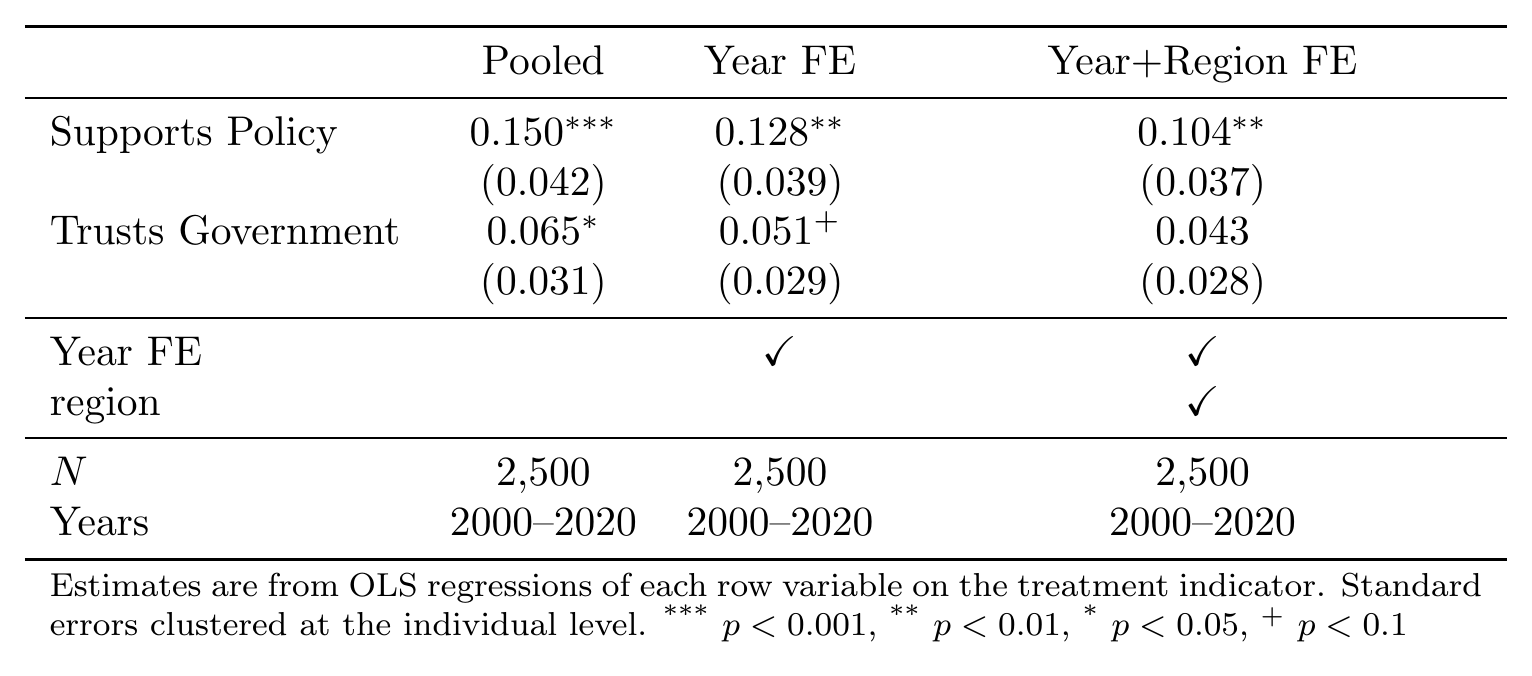
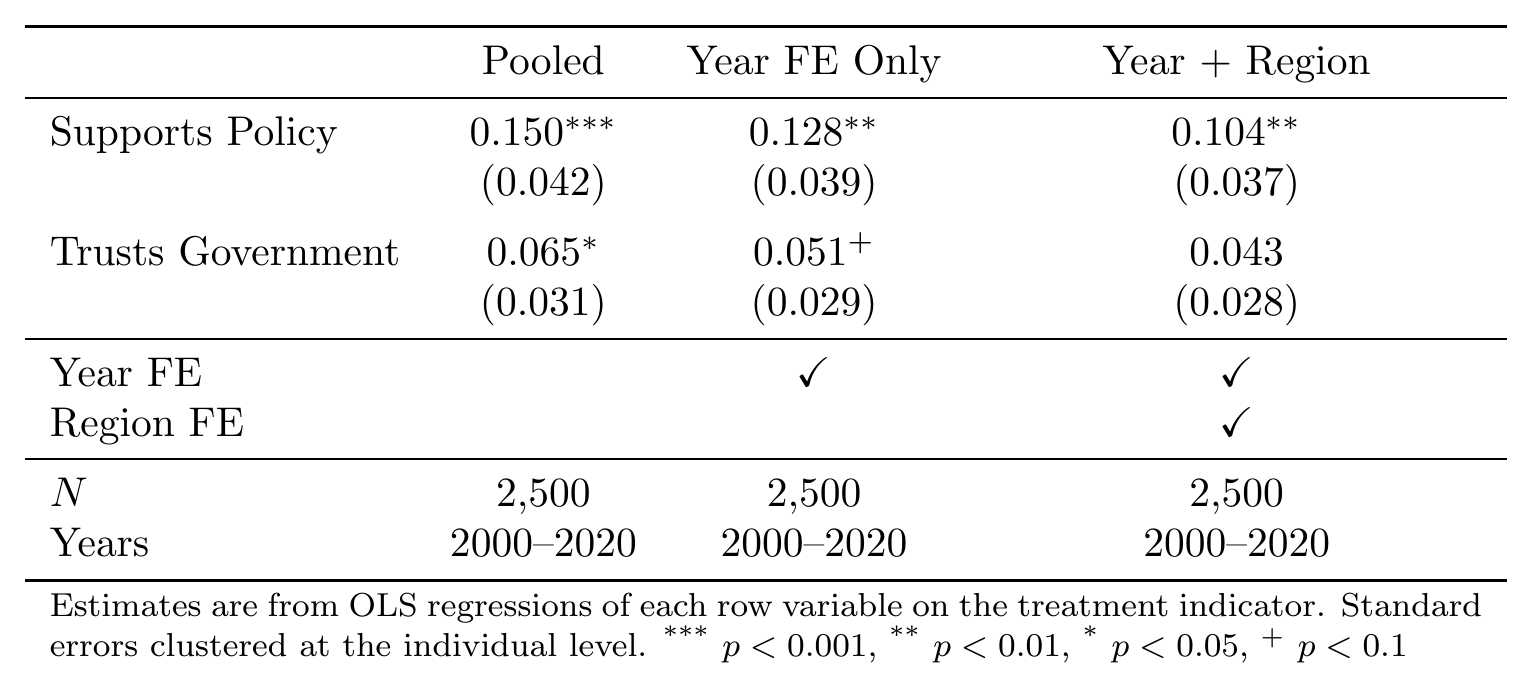
Add Zotero MCP exercise and refine policy table labels

diff --git a/slides/session4_slides.tex b/slides/session4_slides.tex
@@ -699,19 +699,50 @@ sentence citing each in methods.tex.
   \alert{Watch the tool calls, not just the output. Seeing which tools fire tells you what the MCP actually does.}
 \end{frame}
 
-\begin{frame}{Where Would This Reduce Friction for You?}
-  \textbf{One minute, with the person next to you:}
+\begin{frame}[fragile]{Exercise: Mini Literature Review (15 min)}
+  \textbf{You installed the Zotero MCP as Session 4 prework and pointed it at the shared group library \texttt{aina-articles} --- recent papers on economic voting.}
 
-  \vspace{0.8em}
-  \begin{itemize}
-    \item Where in your own drafting workflow do you break flow to check Zotero?
-    \item Is it frequent enough that removing the context-switch would actually matter?
-    \item Or is it rare enough that the setup cost isn't worth it?
+  \vspace{0.4em}
+  \textbf{Your task.} Draft a \textbf{five-sentence literature review} on \emph{one} of:
+  \begin{itemize}\small
+    \item How economic conditions shape vote choice
+    \item Whether voters punish incumbents for bad economies
+    \item How economic voting differs across contexts (regimes, institutions, crises)
   \end{itemize}
 
-  \vspace{1em}
-  \begin{alertblock}{You already installed it}
-    The Zotero MCP setup was in your Session 4 prework. If you completed it, the demo you just saw runs on your machine too --- try the same prompt against your own library after class.
+  \vspace{0.3em}
+  \textbf{Rules:}
+  \begin{itemize}\small
+    \item Every sentence cites at least one paper from \texttt{aina-articles}
+    \item Only use cite keys that \emph{actually exist} in the library --- no hallucinations
+    \item Claude does the searching, full-text reading, and drafting
+  \end{itemize}
+
+  \vspace{0.3em}
+  \textbf{Prompt to start from:}
+  \begin{lstlisting}[basicstyle=\ttfamily\scriptsize]
+Using only papers in my Zotero 'aina-articles' collection, find
+5 relevant to [topic]. Pull the key claim from each full text,
+then draft a 5-sentence lit review with \cite{} for each.
+  \end{lstlisting}
+\end{frame}
+
+\begin{frame}{What to Watch For}
+  \textbf{While the model works, watch the tool calls:}
+
+  \vspace{0.4em}
+  \begin{itemize}
+    \item Did it run \texttt{zotero\_semantic\_search}, or skip search and guess?
+    \item Did it actually pull \texttt{zotero\_get\_item\_fulltext}, or cite from titles alone?
+    \item Do the claims in your sentences match what the papers actually say?
+  \end{itemize}
+
+  \vspace{0.6em}
+  \textbf{After drafting, spot-check one citation.} Open the paper in Zotero. Does the sentence you wrote accurately represent what the paper argues?
+
+  \vspace{0.6em}
+  \begin{alertblock}{The real lesson}
+    An MCP gives Claude \emph{access}. It does not give Claude \emph{judgment}. The failure mode to expect: a plausible sentence citing a paper that says something adjacent --- but not quite that. \textbf{You still read.}
   \end{alertblock}
 \end{frame}
 

diff --git a/session_4/demo_output/tab_policy.tex b/session_4/demo_output/tab_policy.tex
@@ -1,14 +1,15 @@
 \begin{tabular}{l*{3}{c}}
 \toprule
- & Pooled & Year FE & Year+Region FE \\
+ & Pooled & Year FE Only & Year + Region \\
 \midrule
 Supports Policy & 0.150$^{***}$ & 0.128$^{**}$ & 0.104$^{**}$ \\
  & (0.042) & (0.039) & (0.037) \\
+\addlinespace
 Trusts Government & 0.065$^{*}$ & 0.051$^{+}$ & 0.043 \\
  & (0.031) & (0.029) & (0.028) \\
 \midrule
 Year FE &  & $\checkmark$ & $\checkmark$ \\
-region &  &  & $\checkmark$ \\
+Region FE &  &  & $\checkmark$ \\
 \midrule
 $N$ & 2,500 & 2,500 & 2,500 \\
 Years & 2000--2020 & 2000--2020 & 2000--2020 \\
